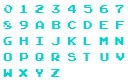
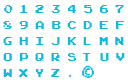
[update] コピーライトに対応
歪んでます。

Changed region(s): [[0.625, 0.8, 0.75, 0.975], [0.5312, 0.925, 0.5625, 0.975]]

diff --git a/source/Title.h b/source/Title.h
@@ -30,7 +30,7 @@ private:
 		{ 100,550,"1ST BONUS FOR 20000 PTS",eYellow,eMag48 },
 		{ 100,650,"2ND BONUS FOR 70000 PTS",eYellow,eMag48 },
 		{ 100,750,"AND FOR EVERY 70000 PTS",eYellow,eMag48 },
-		//{ 150,650,"C 1981 1995 NAMCO LTD",eWhite,eMag48},
+		{ 100,850,"/ 1981 1995 NAMCO LTD",eWhite,eMag48},
 
 	};
 	int TitleHandle[2];
